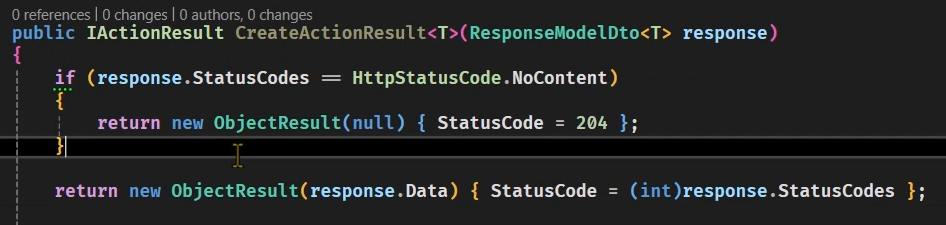
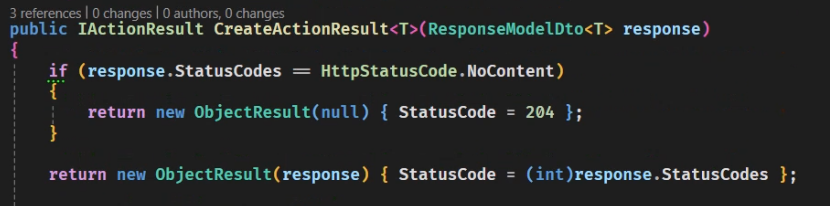
custombasecontroller methods

diff --git a/Day 2/Readme.md b/Day 2/Readme.md
@@ -85,13 +85,17 @@ In Visual Studio: [Analyze] -> [Calculate Code Metrics] -> [For Solution]
 
 **Delete ve Update => HttpStatusCode.NoContent**
 
-Object => Json: Serialization
-Json => Object: Deserialization
+**Object => Json: Serialization**
+
+**Json => Object: Deserialization**
 
 # BaseController Methods:
 ObjectResult içerisine ne verilirse o tipi döner. Generic bir sınıftır. Örneğin, StatusCode olarak 200 verirsek geriye 200 döner.
+Aşağıdaki CreateActionResult metodu cyclomatic complexityi düşürmek için yazılmıştır. Mesaj tipine göre response tipini ya da hatalı gelmişse hata mesajını clienta gönderir.
+
 ![create_action_result](create_action_result.png)
-Cyclomatic Complexityi düşürmek için if sayısını azaltacağız. Bu yüzden **CreateActionResult** içerisinde data yoksa null(içindeki response'ın bodysindeki dataya karşılık gelir) ve StatusCode = 204(no content) döner. Create dışındaki tüm metodları bu fonksiyon karşılayabilir. Create'de Id ve metod adı da döndüğümüz için onu önceki gibi ele alacağız.
+
+Cyclomatic Complexityi düşürmek için if sayısını azaltacağız. Bu yüzden **CreateActionResult** içerisinde data yoksa null (içindeki response'ın bodysindeki dataya karşılık gelir) ve StatusCode = 204 (no content) döner. Create dışındaki tüm metodları bu fonksiyon karşılayabilir.
 - Bu sayede diğer endpointlerdeki kodumuz aşağıdaki gibi sadeleşebilir:
 ![controller_new](controller_new.png)
 **Hatta böyle tek bir satırda lambda fonksiyonu bile olabilir:**
@@ -100,5 +104,13 @@ Cyclomatic Complexityi düşürmek için if sayısını azaltacağız. Bu yüzde
 ![http_put_new](http_put_new.png)
 
 - **Controllerdaki Update endpointlerini sadeleştirmek için aşağıdaki gibi basecontroller içerisinde bir CreateActionResult overloadı yazılması gerekir.**
+Response'ın headerında oluşturulan dataya erişmek ile ilgili bir data taşınabilir. 201 dışındaki hiçbir durumda bu geçerli değildir. Örneğin; Headers -> Location'da Id bulunabilir.
+methodName: "Controller adı", routeValues: "Route'da taşınan değer", response: "Body içindeki mesaj".
+- **CustomBaseController'da:**
 
-![update_basecontrolleroverload](update_basecontrolleroverload.png)
+![created_custombasecontroller](created_custombasecontroller.png)
+- **Onu inherit eden Controllerımızda:**
+
+    nameof(GetId) dendiği zaman GetId metodunu çağırır.✅
+
+![created_custombasecontroller2](created_custombasecontroller2.png)
